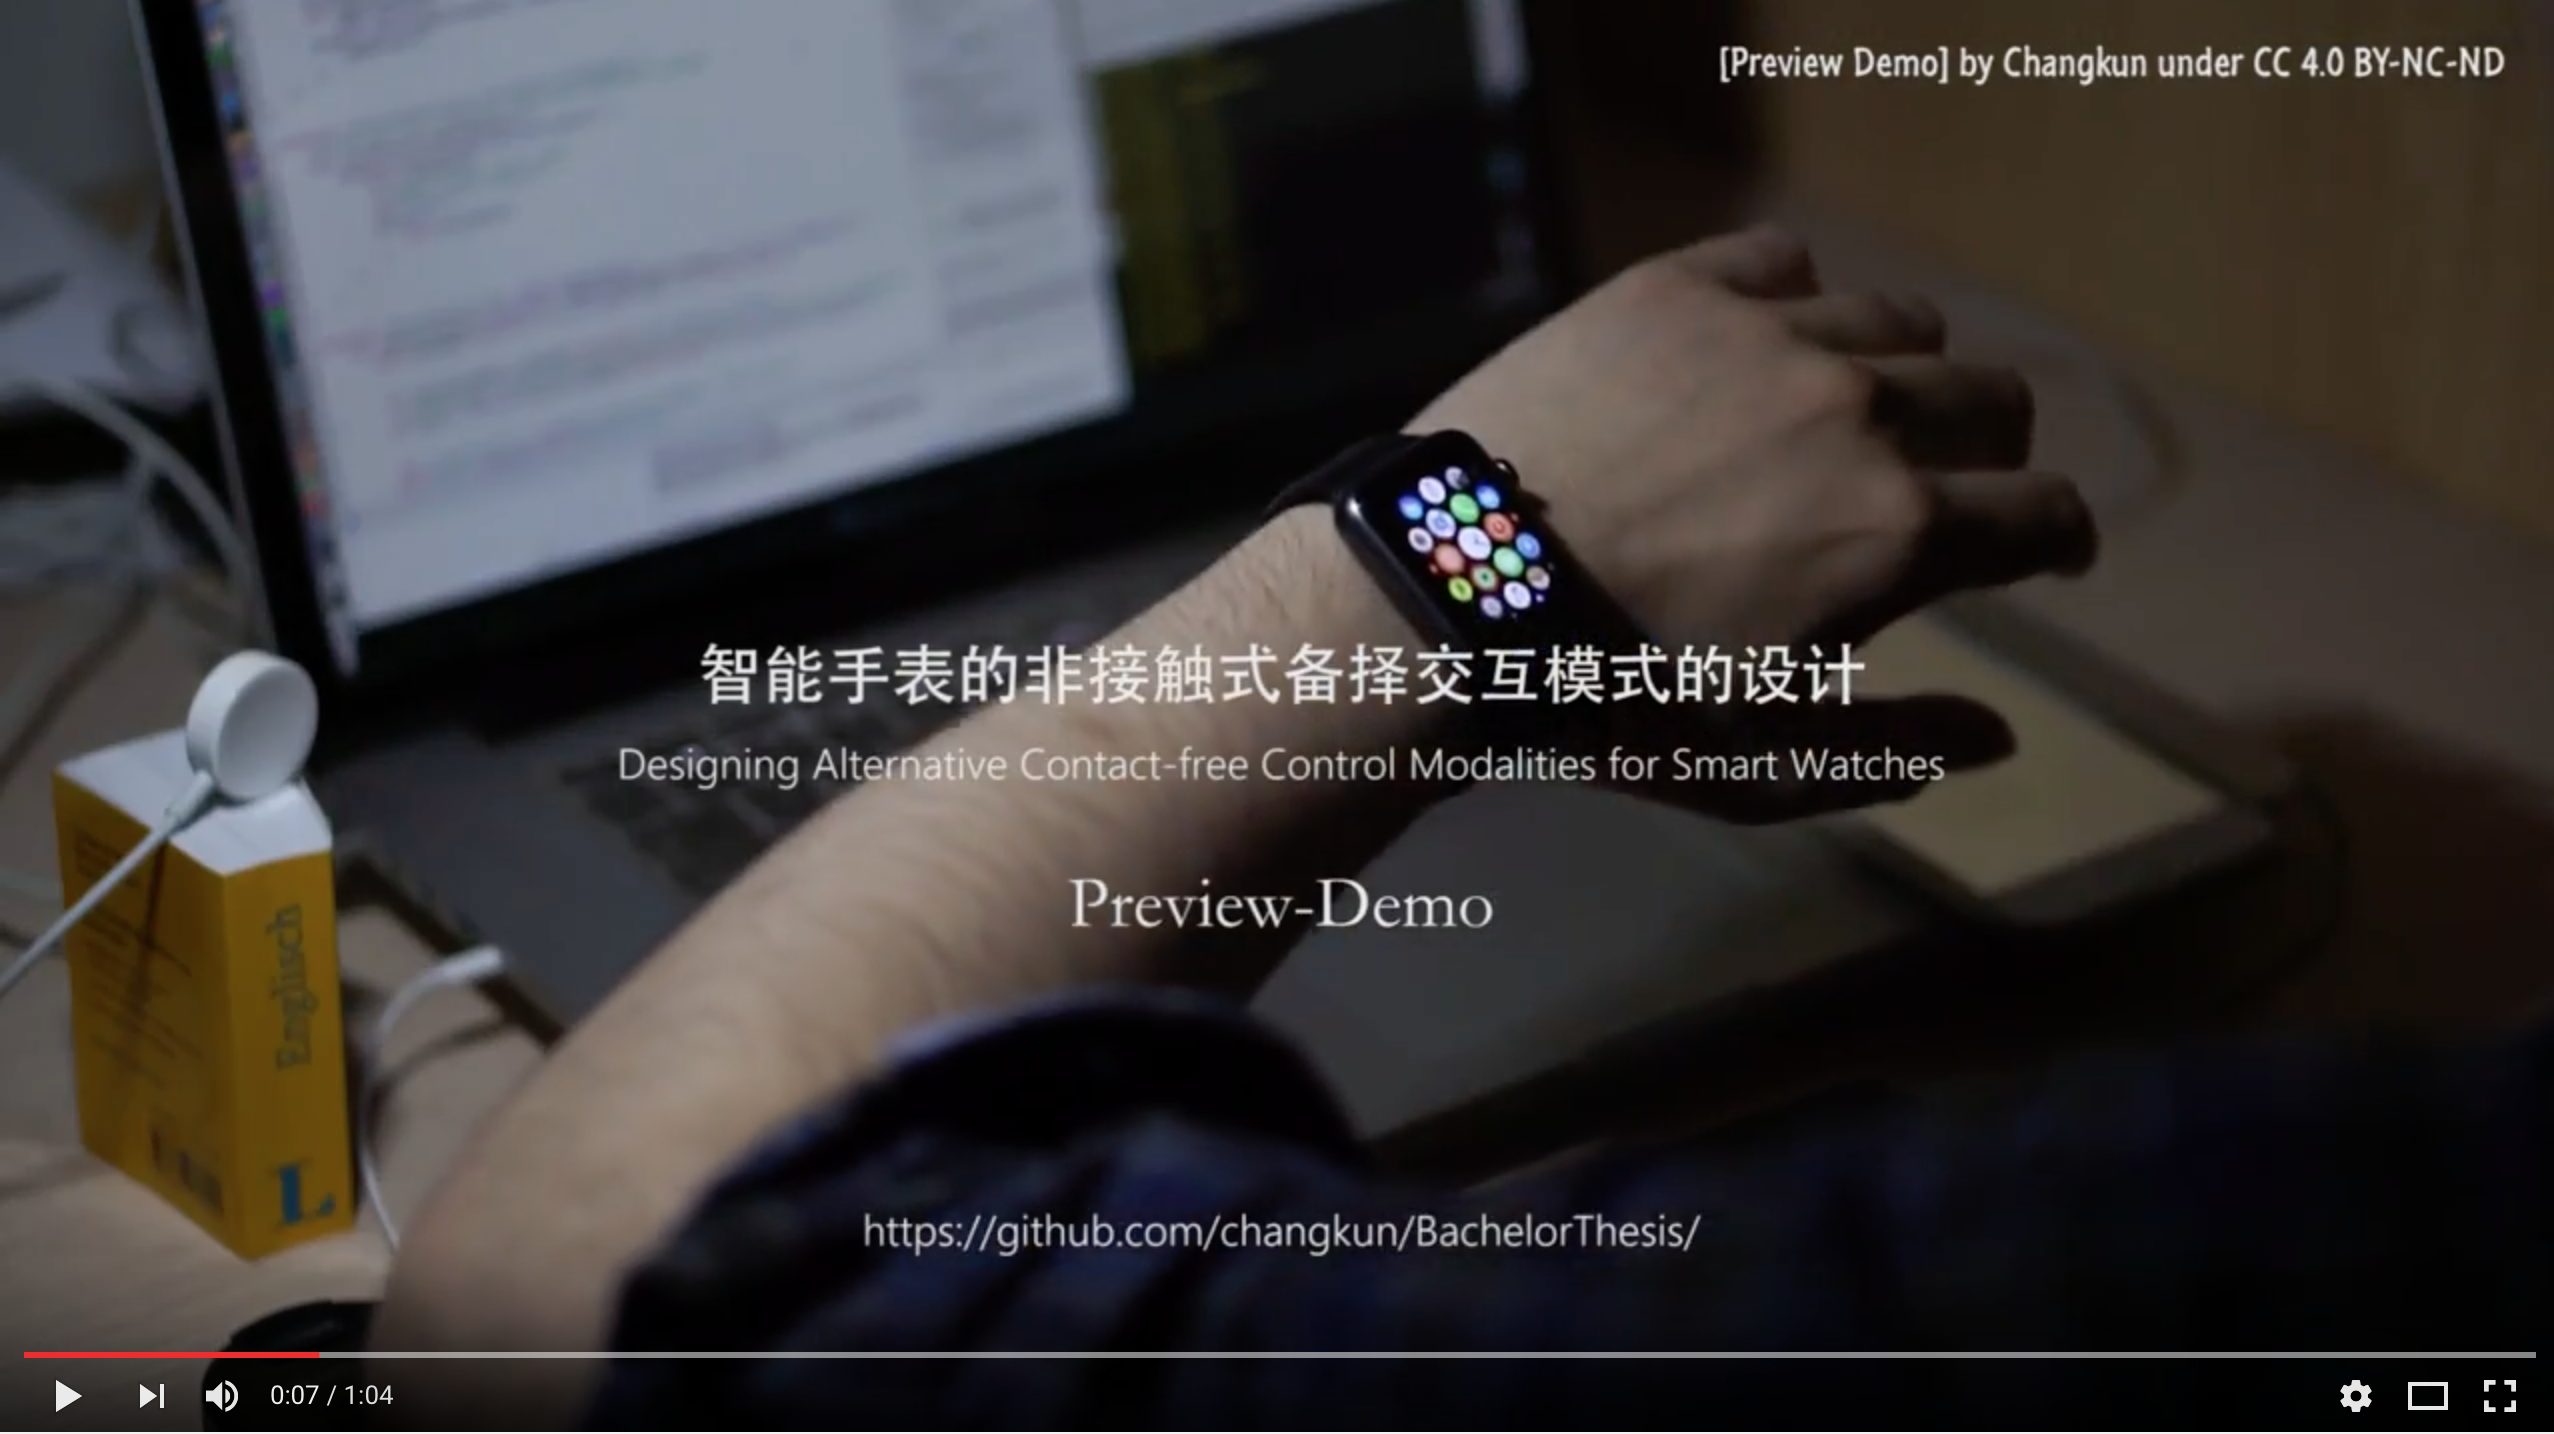
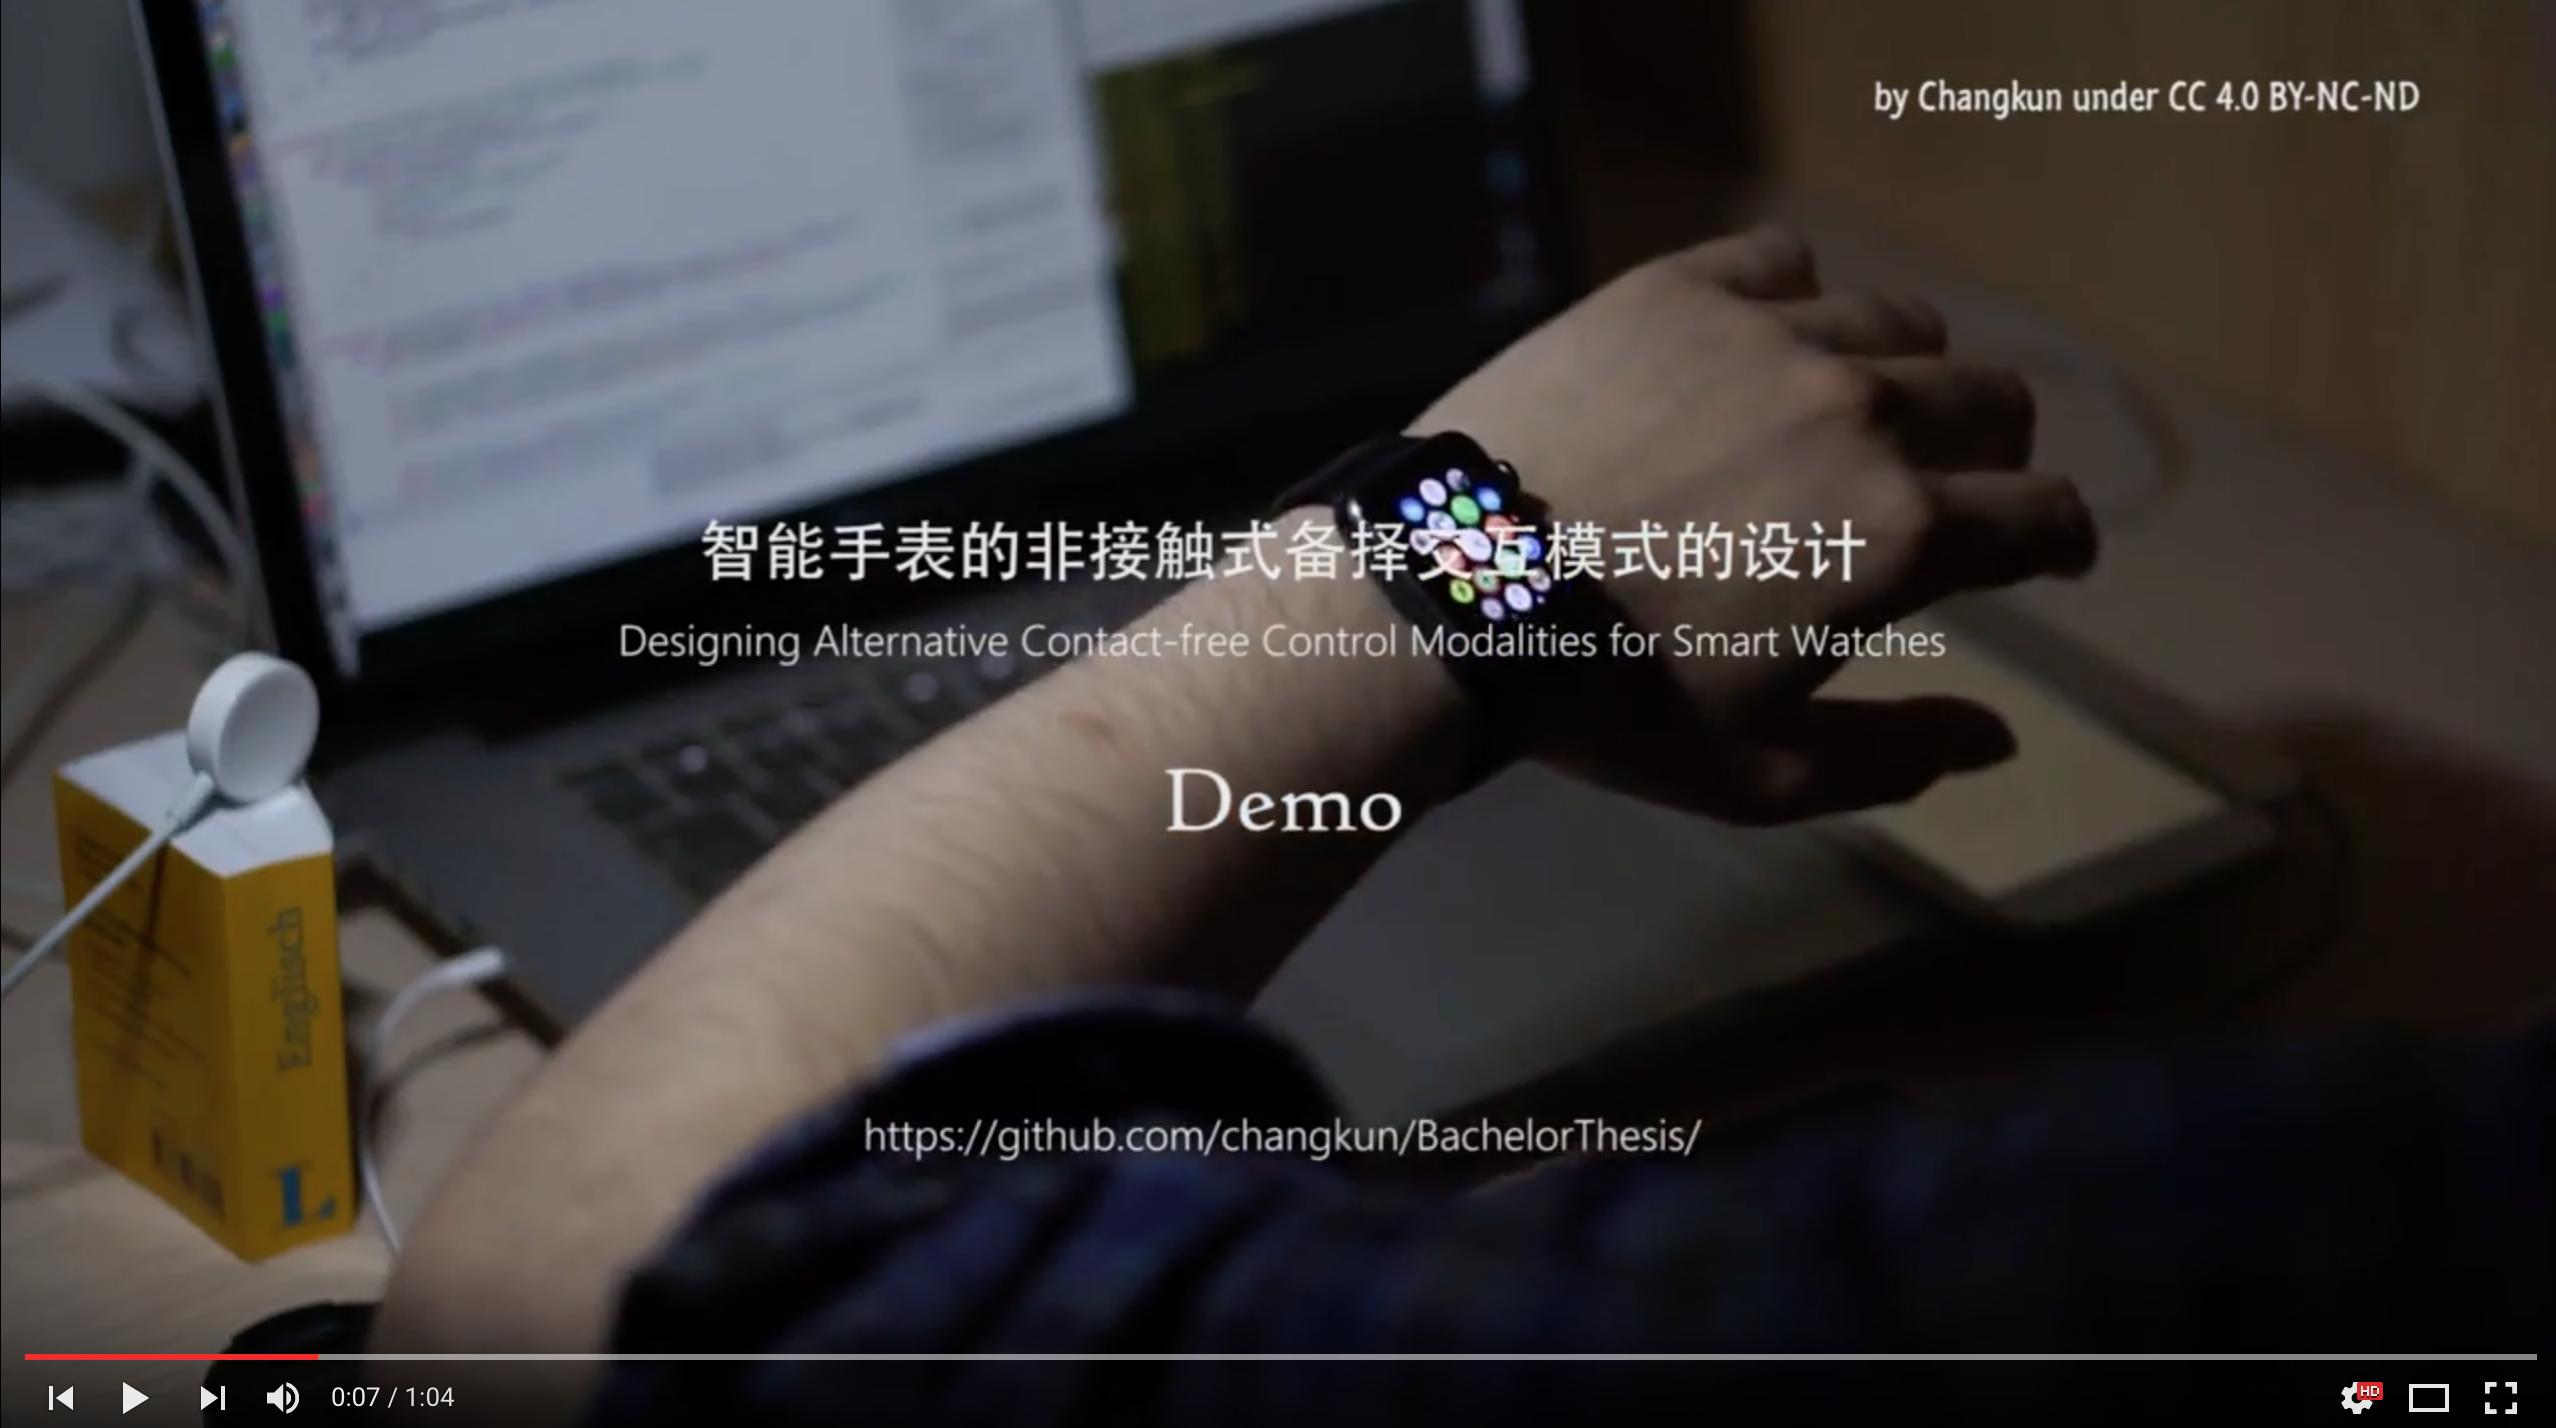
update README

diff --git a/README.md b/README.md
@@ -29,6 +29,8 @@ It's refer to two parts of this project:
 
 * [client](./client) 
   - This folder contains the client software  of watch and phone side, implemented by Swift 2.2;
+* [demo](./demo)
+  - This folder contains demo pictures;
 * [docs](./desktop) 
   - This folder contains related files in this project, include applying doc, architecture source file, advisor comments and etc.
 * [experiment](./experiment) 
@@ -41,9 +43,9 @@ It's refer to two parts of this project:
 <a name="demo"/>
 ## Demo
 
-* [YouTube](https://www.youtube.com/watch?v=ef2pKK6b0UA&list=PLwUqqMt5en7c2QaQ_DkuvZm9dGTz6RjRM):
+* [YouTube](https://www.youtube.com/watch?v=C2-5z7pIv98&list=PLwUqqMt5en7c2QaQ_DkuvZm9dGTz6RjRM):
 
-[![ScreenShot](./demo/screenshot.png)](https://youtu.be/ef2pKK6b0UA)
+[![ScreenShot](./demo/screenshot.png)](https://www.youtube.com/watch?v=C2-5z7pIv98&list=PLwUqqMt5en7c2QaQ_DkuvZm9dGTz6RjRM)
 
 <a name="external"/>
 ## External Projects

diff --git a/README-cn.md b/README-cn.md
@@ -30,6 +30,8 @@
 
 * [client](./client) 
   - 此文件夹中包含了客户端(iOS 与watchOS) 的 Swift 源码；
+* [demo](./demo)
+  - 此文件夹中包含了演示图片；
 * [docs](./desktop) 
   - 此文件夹中包含了项目中产生的相关文档，包括申报表、架构图源文件、答辩Keynote、导师评语(待添加)等；
 * [experiment](./experiment) 
@@ -46,6 +48,7 @@
 
 [![ScreenShot](./demo/screenshot.png)](https://youtu.be/ef2pKK6b0UA)
 
+* [腾讯视频源](http://v.qq.com/page/b/a/z/b0198gu45az.html)
 
 <a name="external"/>
 ## 从论文中析出的项目
